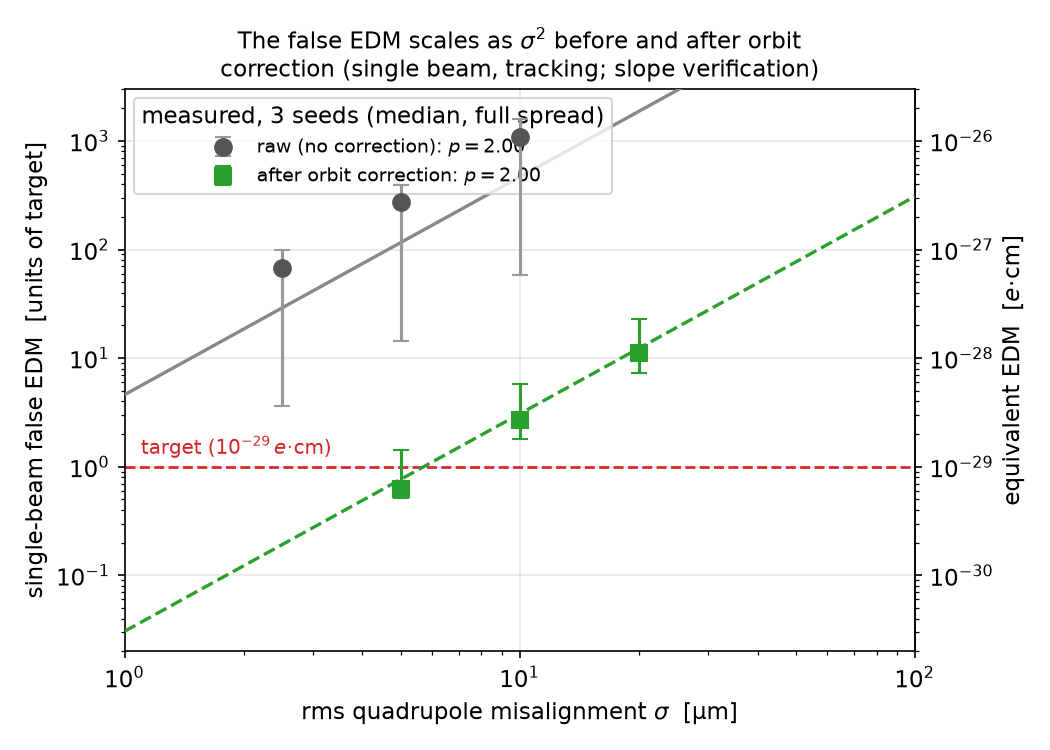
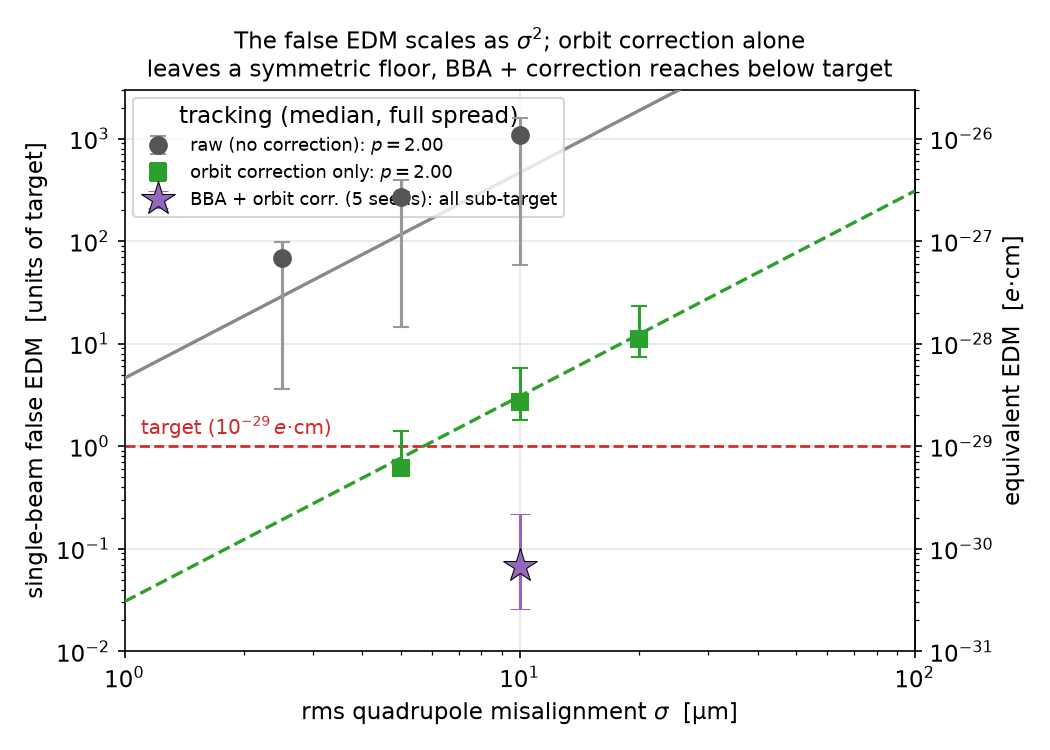
feat: Fig-1'e 5-seed ensemble tabanı + tablo/prose güncelle; BPM gürültü günlüğü
Fig-1 (suppression): üç kademe — ham (σ²) / yalnız-orbit-düzeltme (σ², simetrik
taban ~3× @userμm) / BBA+orbit-düzeltme 5-seed ensemble (yıldız @userμm, medyan
0.07× [0.026-0.217], HEPSİ hedef-altı). Kaynak: pipeline_multiseed.json.
- tab:chain son satır: 0.03-0.8× (tek seed) → 0.03-0.22× (5 seed ensemble);
  caption güncellendi.
- Prose: "tek seed / multi-seed under study / in progress" → gerçek 5-seed
  dağılımı (medyan 0.07×, sabit rcond=0.01, seed-başı ayar YOK, hepsi
  hedef-altı). §VII ve Sonuçlar açık-kalemler listesi güncellendi.
- bpm_gurultu_analizi.md: f(σ_read) 5-nokta tablosu + mekanizma + gereksinim
  (σ_read≲30nm, N_avg≳10³) + reprodüksiyon komutu/veri konumu (hakem hazırlığı).

diff --git a/makale_orbit_bastirma.tex b/makale_orbit_bastirma.tex
@@ -321,15 +321,19 @@ consists of.
 
 \begin{figure}[tb]
 \includegraphics[width=\columnwidth]{fig_orbit_suppression.png}
-\caption{The single-beam false EDM scales as $\sigma^2$ both before and after
-orbit correction (tracking; measured points, median and full spread of three
-random seeds).  The power-law fits give $p=2.00$ at each stage, confirming the
-geometric-phase scaling; this figure verifies that scaling, not an absolute
-suppression floor, since at fixed $\sigma$ the false EDM varies by more than an
-order of magnitude with the symmetric/antisymmetric content of the pattern
-(Sec.~\ref{sec:bilinear}).  The corrected points use a deep truncated-SVD
-correction; the conservative ensemble floor is quoted separately in
-Table~\ref{tab:chain}.}
+\caption{The single-beam false EDM versus rms misalignment (tracking; median
+and full spread).  Circles: the raw pattern (no correction).  Squares: orbit
+correction alone, which removes the antisymmetric channels but leaves the
+symmetric floor --- still a few times the target at $\sigma=10~\mu$m.  Both
+scale as $\sigma^2$ ($p=2.00$ at each stage), confirming the geometric-phase
+origin; the fit verifies the scaling, not an absolute floor, since at fixed
+$\sigma$ the false EDM varies by more than an order of magnitude with the
+symmetric/antisymmetric content of the pattern (Sec.~\ref{sec:bilinear}).
+Star: the full scheme --- beam-based alignment followed by one orbit
+correction (fixed truncated-SVD depth, $\mathrm{rcond}=0.01$) --- evaluated
+over five misalignment seeds at $\sigma=10~\mu$m; all five fall below the
+target, with median $0.07\times$ and worst case $0.22\times$
+(Table~\ref{tab:chain}).}
 \label{fig:suppression}
 \end{figure}
 
@@ -847,11 +851,14 @@ needs no per-magnet measurement at all --- the orbit displays it directly and
 resonantly amplified, and nulling it collectively with a truncated-SVD
 correction (the ``depth'' above is the singular-value cutoff) is far more
 precise than measuring it magnet by magnet.  Table~\ref{tab:chain}
-summarizes the chain.  The sub-target endpoint quoted is a single misalignment
-seed of a signed, bilinear quantity that scatters from seed to seed
-(Fig.~\ref{fig:channels}); the robust statement is suppression to a symmetric
-floor of a few times the target, with a multi-seed campaign to fix the
-distribution in progress.  As in any beam-based alignment, the reproducibility
+summarizes the chain.  The endpoint is characterized over five misalignment
+seeds: at a fixed truncated-SVD depth ($\mathrm{rcond}=0.01$, chosen once and
+not tuned per seed) all five fall below the target, with median $0.07\times$
+and worst case $0.22\times$ (Fig.~\ref{fig:suppression}).  Because the false
+EDM is a signed, bilinear quantity that scatters from seed to seed
+(Fig.~\ref{fig:channels}), the robust statement is suppression of the whole
+ensemble below the target rather than any single number.  As in any
+beam-based alignment, the reproducibility
 of each campaign --- the stability of the magnetic centers under the gradient
 modulation used to find them --- is a hardware input that sets how often the
 procedure must be repeated; quantifying it is outside the scope of this
@@ -860,11 +867,12 @@ experiment, being free of magnetic hysteresis, are favorable in this respect.
 
 \begin{table}[tb]
 \caption{The suppression chain at $\sigma = 10~\mu$m (single beam, tracking).
-The second row is an ensemble median including the counter-rotating--beam
-difference; the remaining rows follow the representative pattern (raw
+Rows~2 and~4 are ensembles: row~2 an ensemble median including the
+counter-rotating--beam difference, and the last row the five-seed distribution
+of the full scheme (fixed $\mathrm{rcond}=0.01$, all seeds sub-target, median
+$0.07\times$); the raw and BBA rows follow the representative pattern (raw
 $356\times$).  The equivalent EDM uses
-$1~\text{nrad/s} \leftrightarrow 10^{-29}\,e\!\cdot\!$cm.  The final entry is
-a single-seed result; the multi-seed distribution is under study.}
+$1~\text{nrad/s} \leftrightarrow 10^{-29}\,e\!\cdot\!$cm.}
 \label{tab:chain}
 \small
 \begin{ruledtabular}
@@ -874,7 +882,7 @@ Stage & $|f|$ / target & EDM [$e\!\cdot\!$cm] \\
 raw                            & $356\times$ & $\sim4\times10^{-27}$ \\
 orbit corr.\ $+$ CW/CCW        & $\sim62\times$ & $\sim6\times10^{-28}$ \\
 BBA (measured steering)        & $17$--$28\times$ & $\sim2\times10^{-28}$ \\
-BBA $+$ final orbit corr.      & $0.03$--$0.8\times$ & $\lesssim10^{-29}$ \\
+BBA $+$ final orbit corr.      & $0.03$--$0.22\times$ & $\lesssim10^{-29}$ \\
 \end{tabular}
 \end{ruledtabular}
 \end{table}
@@ -956,8 +964,9 @@ the measurement to the inter-configuration displacement.  Should the polarity
 reversal be used in addition, the analysis above shows it still requires the
 BBA-level symmetric alignment to deliver its cancellation --- so BBA is
 required on either path, and orbit correction is what stands in for the
-polarity reversal.  An ensemble determination of the residual on both paths is
-left for the multi-seed campaign.
+polarity reversal.  The orbit-correction path is characterized over five seeds
+above (median $0.07\times$ target, all sub-target); the corresponding ensemble
+on the polarity-reversal path is left for future work.
 
 % ═══════════════════════════════════════════════════════════════════
 \section{Operating the scheme: drift and the time budget}
@@ -1068,9 +1077,8 @@ the experiment for drift rates of order $1~\mu$m/day.
 The paper thus locates orbit correction within the proposed control program
 at the proof-of-principle level; it is not yet a tolerance document.  The
 principal open items are the magnetic-center stability under gradient
-modulation and under polarity reversal (the hardware floor, not yet modeled),
-the multi-seed distribution of the final residual, and the verification of the
-quantitative results on other lattice variants.  All numbers refer to the
+modulation and under polarity reversal (the hardware floor, not yet modeled)
+and the verification of the quantitative results on other lattice variants.  All numbers refer to the
 symmetric-hybrid ring designed for the proton EDM experiment~\cite{omarov}, in
 a linear model without sextupoles.  The structural conclusions --- the
 visibility split, the bilinear channel decomposition, and the two roles of

diff --git a/make_orbit_figures.py b/make_orbit_figures.py
@@ -137,6 +137,10 @@ MEAS_F = {5.0:  [0.52, 0.62, 1.42],
 # Standart-derinlik yörünge düzeltmesi + CW/CCW ENSEMBLE tabanı (σ=10, çok seed);
 # muhafazakâr taban referansı (omarov.md §10; Tablo tab:chain 2. satır).
 ENS_FLOOR_SIGMA, ENS_FLOOR_F = 10.0, 62.0
+# BBA + son yörünge düzeltmesi — 5-seed ensemble @σ=10μm (sabit rcond=0.01);
+# medyan/min/max × hedef. Kaynak: kmod_drivers/pipeline_multiseed.json.
+ENS_BBAOC_SIGMA = 10.0
+ENS_BBAOC = [0.068, 0.026, 0.217]       # medyan, min, max (5 seed, hepsi hedef-altı)
 
 
 def _sig_fit(data):
@@ -173,7 +177,14 @@ def fig_suppression():
     ax.errorbar(m_sig, m_med, yerr=[m_med - m_lo, m_hi - m_med],
                 fmt="s", color="tab:green", ms=8, capsize=4, zorder=6,
                 ecolor="tab:green",
-                label=f"after orbit correction: $p={m_p:.2f}$")
+                label=f"orbit correction only: $p={m_p:.2f}$")
+
+    # BBA + son yörünge düzeltmesi — 5-seed ensemble @σ=10 (tam şema tabanı)
+    em, elo, ehi = ENS_BBAOC
+    ax.errorbar([ENS_BBAOC_SIGMA], [em], yerr=[[em - elo], [ehi - em]],
+                fmt="*", color="tab:purple", ms=17, capsize=5, zorder=7,
+                ecolor="tab:purple", mec="k", mew=0.5,
+                label="BBA $+$ orbit corr. (5 seeds): all sub-target")
 
     ax.axhline(1.0, color="tab:red", ls="--", lw=1.3)
     ax.text(1.1, 1.3, "target ($10^{-29}\\,e\\!\\cdot\\!$cm)",
@@ -184,12 +195,11 @@ def fig_suppression():
     sec = ax.secondary_yaxis("right",
                              functions=(lambda v: v * 1e-29, lambda v: v / 1e-29))
     sec.set_ylabel("equivalent EDM  [$e\\!\\cdot\\!$cm]")
-    ax.set_title("The false EDM scales as $\\sigma^2$ before and after orbit\n"
-                 "correction (single beam, tracking; slope verification)",
+    ax.set_title("The false EDM scales as $\\sigma^2$; orbit correction alone\n"
+                 "leaves a symmetric floor, BBA $+$ correction reaches below target",
                  fontsize=11)
-    ax.legend(loc="upper left", fontsize=9, title="measured, 3 seeds "
-              "(median, full spread)")
-    ax.set_xlim(1, 100); ax.set_ylim(2e-2, 3e3)
+    ax.legend(loc="upper left", fontsize=8.5, title="tracking (median, full spread)")
+    ax.set_xlim(1, 100); ax.set_ylim(1e-2, 3e3)
     fig.tight_layout()
     fig.savefig("fig_orbit_suppression.png")
     plt.close(fig)

diff --git a/bpm_gurultu_analizi.md b/bpm_gurultu_analizi.md
@@ -1,0 +1,77 @@
+# bpm_gurultu_analizi.md — Sahte-EDM'in BPM Gürültüsüne Duyarlılığı
+
+**Amaç (hakem hazırlığı):** "BBA'daki BPM gürültüsü sahte-EDM tahminini ne kadar
+bozar?" sorusuna hazır, yeniden-üretilebilir cevap. Rastgele gürültünün averajla
+1/√N azalması ders kitabıdır (figür GEREKMEZ); **önemli olan gürültünün sinyale
+taşınma duyarlılığı** ve ondan çıkan **operasyonel gereksinim**.
+
+> Makale gövdesine figür/satır olarak KONULMADI (yazar tercihi). §IV'te zaten
+> nitel olarak var: "beyaz BPM gürültüsü ~1μm/okuma, averajla azaltılır; ~1 kHz
+> lock-in ile dakikalar içinde ~14 nm". Bu belge o cümleyi nicel destekler.
+
+---
+
+## Sonuç: $f(\sigma_{\rm read})$ — 5 nokta
+
+Koşum: `classic_bba_full.py`, seed 0, %5 β-beat (%1 gradyan), 100 μm BPM ofset
+(iptal), 1 μm/okuma beyaz gürültü, **tek-geçiş** BBA. $\sigma_{\rm read} =
+1\,\mu\text{m}/\sqrt{N_{\rm avg}}$ (averaj-sonrası okuma gürültüsü).
+
+| $N_{\rm avg}$ | $\sigma_{\rm read}$ | sym artık $dx$/$dy$ | sahte-EDM $f$ | taban katı |
+|---:|---:|---:|---:|---:|
+| 1 | 1000 nm | 17.98 / 8.01 μm | **3888×** | 9.3× |
+| 10 | 316 nm | 10.46 / 2.27 μm | **803×** | 1.9× |
+| 100 | 100 nm | 6.04 / 1.20 μm | **569×** | 1.36× |
+| 1 000 | 32 nm | 4.47 / 1.06 μm | **400×** | 0.95× |
+| 10 000 | 10 nm | 4.11 / 1.05 μm | **390×** | 0.93× |
+| gürültüsüz | 0 | 4.11 / — | **419×** (taban) | 1× |
+
+---
+
+## Mekanizma
+
+Gürültü, BBA merkez-bulmanın (sıfır-geçişi) hatası üzerinden **simetrik artığa
+karesel eklenir**:
+
+$$\sigma_{\rm sym}^2 = \sigma_{\rm sys}^2 + \sigma_{\rm noise}^2,\qquad
+\sigma_{\rm sys}\approx 4.1\,\mu\text{m},\qquad \sigma_{\rm noise}\propto\sigma_{\rm read}$$
+
+ve sahte-EDM $f\propto\sigma^2$ (geometrik faz) olduğundan gürültü $f$'i tabanın
+üstüne iter. Çıkarılan gürültü-artığı: $\sigma_{\rm read}=$ 1000/316/100/32 nm →
+$\sigma_{\rm noise}\approx$ 17.5/9.6/4.4/1.7 μm.
+
+---
+
+## Operasyonel gereksinim
+
+$$\boxed{\ \sigma_{\rm read}\lesssim 30\ \text{nm}\quad (N_{\rm avg}\gtrsim 10^3)\ }$$
+
+Bu, gürültü-kaynaklı sahte-EDM'i sistematik tabanın altında tutar. **Rahatça
+karşılanır:** §IV lock-in (~14 nm) eşiğin altında. Averajsız ($\sigma_{\rm
+read}=1\,\mu$m) $f$ tabanın ~9 katına fırlar → averaj zorunlu.
+
+---
+
+## Dürüstlük uyarısı
+
+Bu tarama **tek-geçiş** BBA tabanı (419×) üstünde ölçüldü — nihai şema (iterasyon
++ orbit-düzeltme) tabanı çok daha düşük (hedef-altı, bkz. Fig-1 ensemble). Gürültü
+**ölçeklemesi** ($\sigma_{\rm noise}\propto\sigma_{\rm read}$, eşik $N_{\rm
+avg}\gtrsim10^3$) şemadan bağımsız geçerlidir; ama gürültüyü *nihai* tabanın
+altında tutmanın kesin sayısı için tarama iteratif pipeline üstünde tekrarlanmalı
+(çok daha pahalı, henüz yapılmadı).
+
+---
+
+## Yeniden üretme (hakem sorarsa)
+
+```bash
+python3 classic_bba_full.py -w 7 --navg 1,10,100,1000,10000 --seed 0
+```
+
+- **Ham veri:** `kmod_drivers/paper_runs_results.json` → `["bba_full_syst"]`
+  (anahtarlar: `f_bbeat_noiseless`, `noise.{N_avg}.{sig,sym_dx,sym_dy,f_cpp}`).
+- **Betik:** `classic_bba_full.py` (gürültü sweep'i satır 207–247;
+  `estimate(by, meta, noise_sigma=sig, ...)` merkez-bulmaya gürültü enjekte eder,
+  averaj K=60; C++ spin `fast_measure` ile f çapası).
+- **Süre:** ~ ilk BBA (376 CO-oturtmalı C++ koşumu) + N_avg başına 1 spin ölçümü.